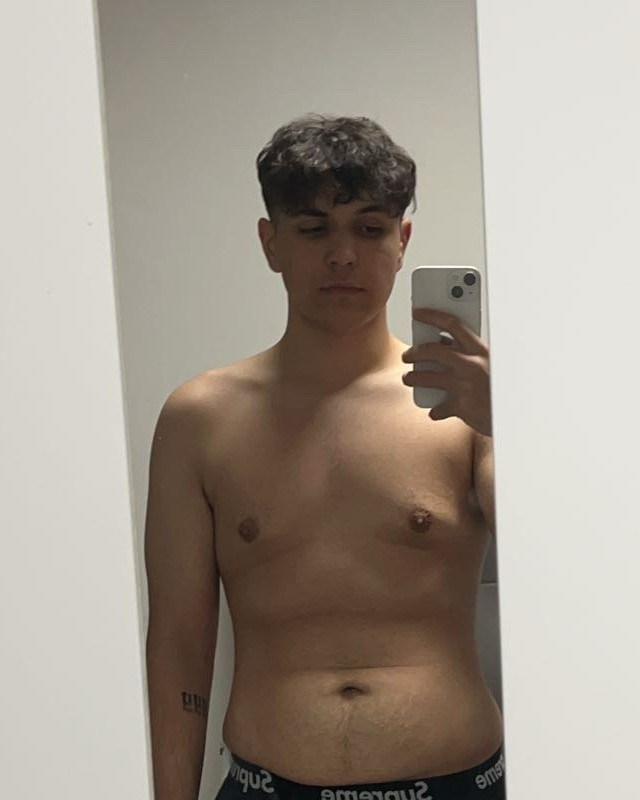
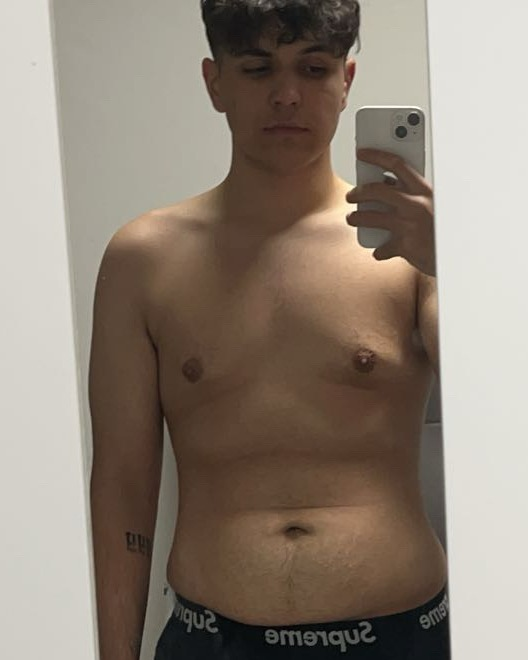
Fix: ořez fotek na tělo (Jakub trup, Justýna bez obličeje), Dominik zpět na výšku, karty zarovnané nahoru

diff --git a/lib/content.ts b/lib/content.ts
@@ -132,10 +132,9 @@ export const featuredResults: ResultCard[] = [
   {
     kind: "ba",
     name: "Justýna H.",
-    before: "/images/results/justyna-before.png",
-    after: "/images/results/justyna-after.png",
+    before: "/images/results/justyna-before.jpg",
+    after: "/images/results/justyna-after.jpg",
     duration: "4 měsíce",
-    afterPosition: "50% 70%",
     quote:
       "Hip thrust z 15 kg na 80 kg, dřep z 20 na 60. Změna je vidět na postavě, síle i náladě.",
   },
@@ -151,9 +150,8 @@ export const featuredResults: ResultCard[] = [
   {
     kind: "single",
     name: "Dominik Jedlička",
-    image: "/images/results/dominik-jedlicka-wide.jpg",
+    image: "/images/results/dominik-jedlicka.png",
     duration: "Dlouhodobá spolupráce",
-    wide: true,
     quote:
       "Přivedla mě nespokojenost s formou. Změnila se váha i vzhled. Doporučil bych ho lidem, co chtějí začít cvičit a neví jak na to, stejně tak i s jídelníčkem.",
   },

diff --git a/app/vysledky/page.tsx b/app/vysledky/page.tsx
@@ -38,7 +38,7 @@ export default function VysledkyPage() {
             </p>
           </header>
 
-          <div className="grid grid-cols-1 sm:grid-cols-2 lg:grid-cols-2 gap-6 lg:gap-8">
+          <div className="grid grid-cols-1 sm:grid-cols-2 lg:grid-cols-2 gap-6 lg:gap-8 items-start">
             {allResults.map((r) => (
               <article
                 key={r.name}

diff --git a/components/sections/Results.tsx b/components/sections/Results.tsx
@@ -29,7 +29,7 @@ export function Results() {
           </motion.p>
         </div>
 
-        <div className="grid grid-cols-1 sm:grid-cols-2 lg:grid-cols-2 gap-6 lg:gap-8">
+        <div className="grid grid-cols-1 sm:grid-cols-2 lg:grid-cols-2 gap-6 lg:gap-8 items-start">
           {featuredResults.map((r, i) => (
             <motion.article
               key={r.name}
